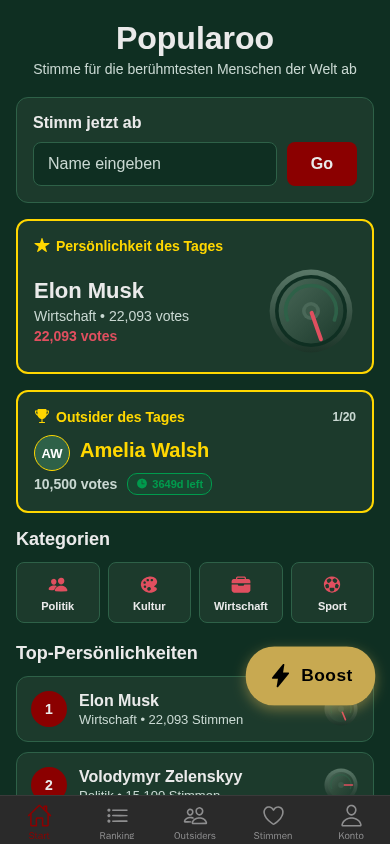
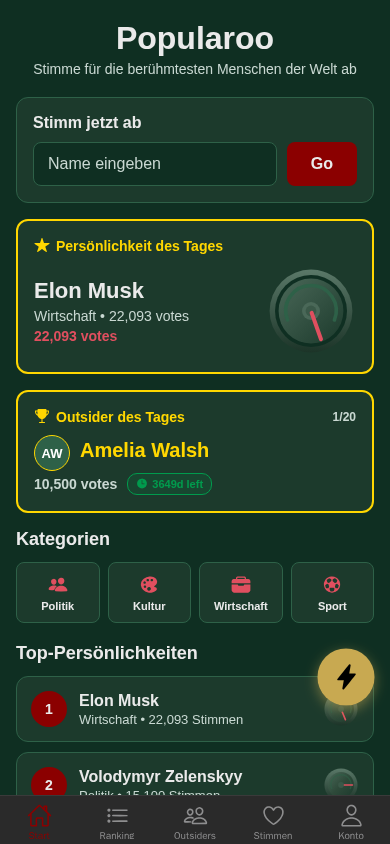
auto-commit for b4fe277e-d6b5-40c7-9b04-ef72ec8d069a

Changed region(s): [[0.6154, 0.7393, 0.9538, 0.8626]]

diff --git a/frontend/app/index.tsx b/frontend/app/index.tsx
@@ -597,15 +597,14 @@ export default function HomeScreen() {
         </View>
       </ScrollView>
 
-      {/* Floating Boost Button (FAB) */}
+      {/* Floating Boost Button (FAB) — compact round */}
       <Animated.View style={[styles.fab, { transform: [{ scale: fabScale }] }]}>
         <TouchableOpacity
           style={styles.fabInner}
           onPress={() => router.push("/premium")}
           activeOpacity={0.8}
         >
-          <Ionicons name="flash" size={24} color="#000" />
-          <Text style={styles.fabText}>Boost</Text>
+          <Ionicons name="flash" size={26} color="#000" />
         </TouchableOpacity>
       </Animated.View>
     </SafeAreaView>
@@ -802,12 +801,11 @@ const styles = StyleSheet.create({
     zIndex: 100,
   },
   fabInner: {
-    flexDirection: 'row',
     alignItems: 'center',
-    gap: 8,
+    justifyContent: 'center',
     backgroundColor: '#C8A951',
-    paddingHorizontal: 22,
-    paddingVertical: 16,
+    width: 56,
+    height: 56,
     borderRadius: 28,
   },
   fabText: {
